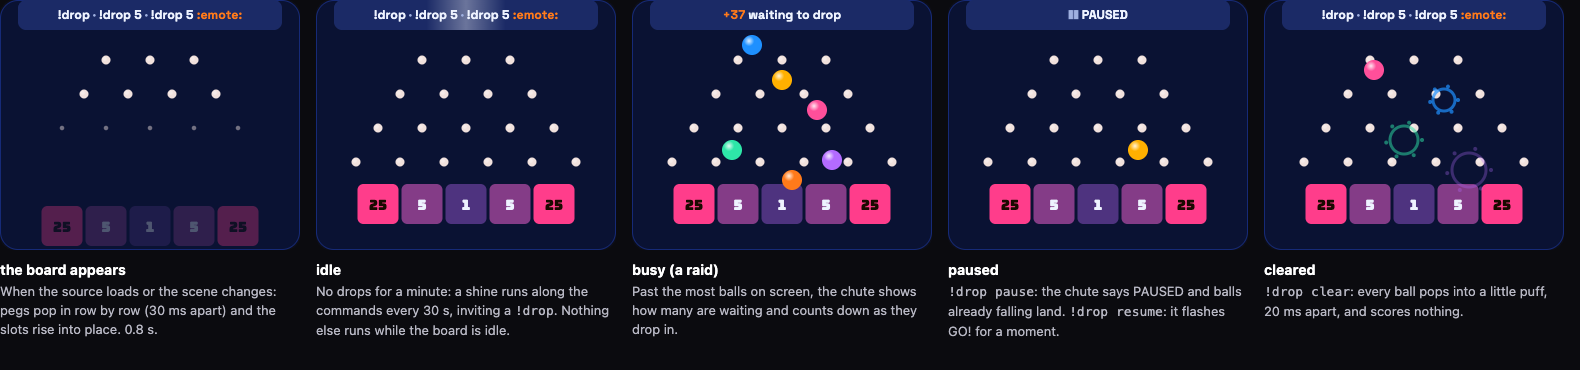
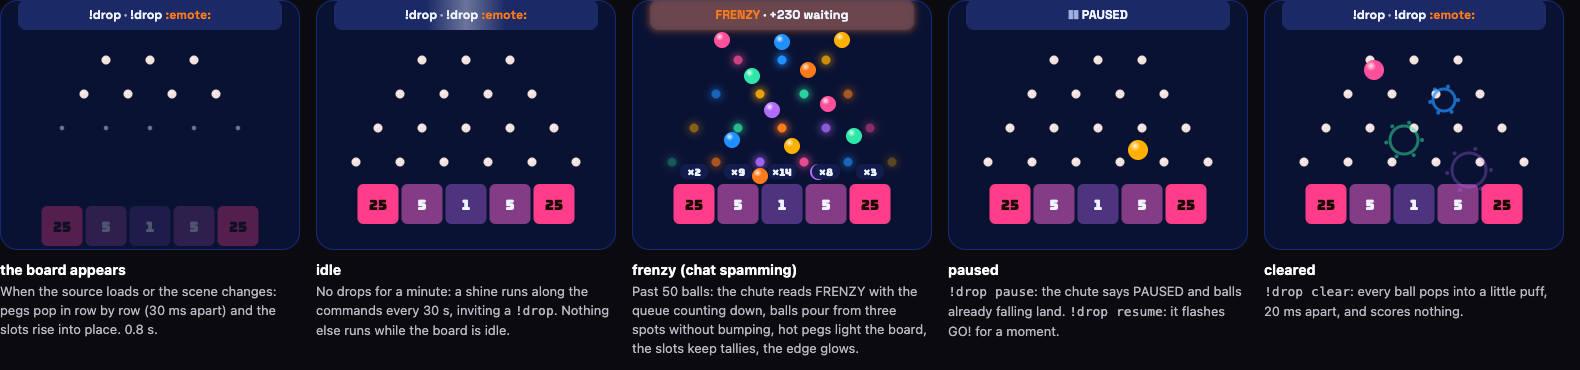
Chaplinko plan: no number and no cooldown (spam is the point: balls per drop, the board queues instead of limiting viewers, 100 on screen); animations scale with activity (Quiet / Busy / Frenzy), the leaderboard batches and shows places climbed; storyboards updated

diff --git a/docs/plans/chaplinko/mockup.html b/docs/plans/chaplinko/mockup.html
@@ -1,6 +1,6 @@
 <!doctype html>
 <!-- A still mockup of Chaplinko (docs/plans/chaplinko/plan.md), drawn with the real widget themes. Not the game:
-     nothing moves. ?v=classic|pachinko|tower|jackpot|clear|panel|strip|lbclear|scene|combined|hero|accents|sb-drop|sb-jackpot|sb-leaderboard|sb-board shows one frame at its real size (for screenshots);
+     nothing moves. ?v=classic|pachinko|tower|jackpot|clear|panel|strip|lbclear|scene|combined|hero|accents|sb-drop|sb-jackpot|sb-leaderboard|sb-levels|sb-board shows one frame at its real size (for screenshots);
      no ?v shows them all. -->
 <html lang="en">
 <head>
@@ -109,7 +109,7 @@ function slotFill(v, max) {
 function slotInk(v, max) { return v === max || v / max > .3 ? 'var(--accent-ink)' : 'var(--text)'; }
 
 // the drop chute at the top of every board, carrying the commands (plan.md, "Chat commands")
-const CMDS = `!drop <tspan style="fill:var(--muted)">·</tspan> !drop 5 <tspan style="fill:var(--muted)">·</tspan> !drop 5 <tspan style="fill:var(--accent)">:emote:</tspan>`;
+const CMDS = `!drop <tspan style="fill:var(--muted)">·</tspan> !drop <tspan style="fill:var(--accent)">:emote:</tspan>`;
 const chute = (cx, label = CMDS, extra = '') => `<rect x="${cx - 132}" y="0" width="264" height="30" rx="8" style="fill:var(--slot)"/>${extra}` +
   `<text x="${cx}" y="15" font-size="12.5" text-anchor="middle" dominant-baseline="central" style="font-family:var(--font);font-weight:700;fill:var(--text)">${label}</text>`;
 function svg(w, h, parts) { return `<svg width="${w}" height="${h}" viewBox="0 0 ${w} ${h}" xmlns="${NS}">
@@ -228,7 +228,7 @@ function mini(o = {}) {
 const at = (P, r, i) => P.find((q) => q.r === r && q.i === i);
 const sbDrop = () => `<div class="sb">
   ${fig(300, 250, mini({ chute: chute(150, `<tspan style="fill:var(--accent)">×4</tspan> more coming`, ''), extra: () => `<g transform="translate(150 30) scale(1 .86) translate(-150 -30)"></g>` + ball(150, 42, 11.5, 0, CHAT[0]) + `<path d="M141 33 q9 -6 18 0" fill="none" stroke-width="2" style="stroke:var(--text)" opacity=".5"/>` }),
-    '0 ms · the drop', 'The chute gulps (squash and spring, 220 ms) and pops the ball out a little big (scale 1.15 → 1). <code>!drop 5</code> streams the rest 120 ms apart and the chute counts them down.')}
+    '0 ms · the drop', 'The chute gulps (squash and spring, 220 ms) and pops the ball out a little big (scale 1.15 → 1). The rest of the drop streams out 120 ms apart and the chute counts them down.')}
   ${fig(300, 250, mini({ peg: (q) => q.r === 1 && q.i === 1 ? pegc(q.x, q.y, CHAT[0]) + ring(q.x, q.y, 13, CHAT[0]) + ring(q.x, q.y, 20, CHAT[0], .25, 1.5) : undefined,
     extra: ({ P }) => { const q = at(P, 1, 1); return [5, 4, 3, 2, 1].map((k) => `<circle cx="${q.x - 6 - k * 4}" cy="${q.y - 14 - k * 7}" r="${9 - k}" style="fill:${CHAT[0]}" opacity="${.07 * (6 - k)}"/>`).join('') +
       `<ellipse cx="${q.x - 6}" cy="${q.y - 13}" rx="11" ry="8.6" transform="rotate(-30 ${q.x - 6} ${q.y - 13})" style="fill:${CHAT[0]}"/><ellipse cx="${q.x - 6}" cy="${q.y - 13}" rx="11" ry="8.6" fill="url(#shine)"/>`; } }),
@@ -276,8 +276,8 @@ const L = PLAYERS;
 const sbBoard = () => `<div class="sb">
   ${fig(LW, LH, lbBox(lbRow(1, L[0]) + lbRow(2, L[1]) + lbRow(3, L[2], 'background:linear-gradient(90deg, color-mix(in srgb, var(--accent) 35%, transparent), transparent 70%)', '<span class="chip">+25</span>', '87<span style="opacity:.45">2</span>') + lbRow(4, L[3]) + lbRow(5, L[4])),
     'a score goes up', 'The points count up (600 ms, fixed-width digits so nothing jiggles), a sweep of the accent crosses the row, and a <b style="display:inline;color:inherit">+25</b> chip fades out beside it.')}
-  ${fig(LW, LH, lbBox(lbRow(1, L[0]) + lbRow(2, L[1], 'transform:translateY(16px);opacity:.7') + lbRow('<span style="display:inline-block;transform:translateY(-4px);opacity:.6">2</span>', [L[2][0], L[2][1], 1130], 'transform:translateY(-16px) scale(1.04);background:var(--slot);border-radius:10px;box-shadow:0 8px 20px #0007;z-index:2') + lbRow(4, L[3]) + lbRow(5, L[4])),
-    'overtaking', 'Rows slide past each other (400 ms, a little overshoot). The one going up lifts above the rest; the rank numbers roll like a counter.')}
+  ${fig(LW, LH, lbBox(lbRow(1, L[0]) + lbRow(2, L[1], 'transform:translateY(16px);opacity:.7') + lbRow('<span style="display:inline-block;transform:translateY(-4px);opacity:.6">2</span>', [L[2][0], L[2][1], 1130], 'transform:translateY(-16px) scale(1.04);background:var(--slot);border-radius:10px;box-shadow:0 8px 20px #0007;z-index:2', '<span style="color:#2ee6a8;font-size:12px;font-weight:700;margin-right:8px">▲1</span>') + lbRow(4, L[3]) + lbRow(5, L[4])),
+    'overtaking', 'Rows slide past each other (400 ms, a little overshoot). The one going up lifts above the rest, the rank numbers roll like a counter, and ▲ shows the places climbed. When busy, reorders batch to once a second.')}
   ${fig(LW, LH, lbBox(lbRow(1, [L[2][0], L[2][1], 1302], 'background:linear-gradient(100deg, transparent 20%, color-mix(in srgb, var(--text) 18%, transparent) 40%, transparent 60%)', `<svg width="30" height="30" style="position:absolute;left:96px;top:2px;overflow:visible">${ball(12, 12, 8)}<path d="M4 -2 v-8 M12 -4 v-10 M20 -2 v-8" stroke="#fff" stroke-opacity=".5" stroke-width="1.5"/></svg>`) + lbRow(2, L[0]) + lbRow(3, L[1]) + lbRow(4, L[3]) + lbRow(5, L[4])),
     'a new #1', 'A tangerine ball drops onto the new leader’s name and bounces twice; a shine sweeps across the row.')}
   ${fig(LW, LH, lbBox(lbRow(1, ALLTIME[0]) + lbRow(2, ALLTIME[1], 'opacity:.65;transform:translateY(6px)') + lbRow(3, ALLTIME[2], 'opacity:.3;transform:translateY(16px)'),
@@ -293,13 +293,49 @@ const sbExtras = () => `<div class="sb">
     'the board appears', 'When the source loads or the scene changes: pegs pop in row by row (30 ms apart) and the slots rise into place. 0.8 s.')}
   ${fig(300, 250, mini({ chute: chute(150, CMDS, `<defs><linearGradient id="shim" x1="0" x2="1"><stop offset=".35" stop-color="#fff" stop-opacity="0"/><stop offset=".5" stop-color="#fff" stop-opacity=".35"/><stop offset=".65" stop-color="#fff" stop-opacity="0"/></linearGradient></defs><rect x="18" y="0" width="264" height="30" rx="8" fill="url(#shim)"/>`) }),
     'idle', 'No drops for a minute: a shine runs along the commands every 30 s, inviting a <code>!drop</code>. Nothing else runs while the board is idle.')}
-  ${fig(300, 250, mini({ chute: chute(150, `<tspan style="fill:var(--accent)">+37</tspan> waiting to drop`), extra: () => ball(120, 45, 10, 0, CHAT[1]) + ball(150, 80, 10, 0, CHAT[2]) + ball(185, 110, 10, 0, CHAT[0]) + ball(100, 150, 10, 0, CHAT[3]) + ball(200, 160, 10, 0, CHAT[5]) + ball(160, 180, 10, 0, CHAT[4]) }),
-    'busy (a raid)', 'Past the most balls on screen, the chute shows how many are waiting and counts down as they drop in.')}
+  ${fig(300, 250, mini({ chute: chute(150, `<tspan style="fill:var(--accent)">FRENZY</tspan> · +230 waiting`, `<rect x="16" y="-2" width="268" height="34" rx="10" style="fill:var(--accent)" opacity=".35" filter="url(#glow)"/>`),
+    peg: (q) => pegc(q.x, q.y, CHAT[(q.r + q.i) % 6], Math.max(.25, 1 - Math.abs(q.i - q.r / 2 - 1) * .3)),
+    extra: ({ x0, sw, sy }) => [[90, 40], [150, 42], [210, 40], [120, 76], [176, 70], [140, 110], [196, 104], [100, 140], [160, 146], [222, 136], [128, 176], [186, 172]].map(([x, y], k) => ball(x, y, 8, 0, CHAT[k % 6])).join('') +
+      [2, 9, 14, 8, 3].map((n, i) => `<rect x="${x0 + i * sw + 8}" y="${sy - 20}" width="${sw - 16}" height="15" rx="7" style="fill:var(--panel)"/>` + text(x0 + i * sw + sw / 2, sy - 12, '×' + n, 10, 'fill:var(--text)')).join('') }) +
+    `<div style="position:absolute;inset:0;border-radius:14px;box-shadow:inset 0 0 30px color-mix(in srgb, var(--accent) 60%, transparent);pointer-events:none"></div>`,
+    'frenzy (chat spamming)', 'Past 50 balls: the chute reads FRENZY with the queue counting down, balls pour from three spots without bumping, hot pegs light the board, the slots keep tallies, the edge glows.')}
   ${fig(300, 250, mini({ chute: chute(150, `<tspan style="fill:var(--muted)">❚❚</tspan> PAUSED`) , extra: () => ball(190, 150, 10, 0, CHAT[2]) }),
     'paused', '<code>!drop pause</code>: the chute says PAUSED and balls already falling land. <code>!drop resume</code>: it flashes GO! for a moment.')}
   ${fig(300, 250, mini({ extra: () => [[110, 70, 0], [180, 100, 1], [140, 140, 3], [205, 170, 5]].map(([x, y, c], k) => k === 0 ? ball(x, y, 10, 0, CHAT[c]) :
       ring(x, y, 8 + k * 3, CHAT[c], .9 - k * .2, 3) + [0, 1, 2, 3, 4, 5].map((j) => `<circle cx="${x + Math.cos(j) * (10 + k * 4)}" cy="${y + Math.sin(j) * (10 + k * 4)}" r="2" style="fill:${CHAT[c]}" opacity="${.9 - k * .2}"/>`).join('')).join('') }),
     'cleared', '<code>!drop clear</code>: every ball pops into a little puff, 20 ms apart, and scores nothing.')}
+</div>`;
+
+// the full board at each activity level (plan.md, "Activity levels")
+function levelBoard(level) {
+  const cx = 320, top = 66, dy = 38, gap = 46, sy = 430, x0 = 67, sw = 46, p = [], vals = [100, 25, 10, 5, 2, 1, 2, 5, 10, 25, 100];
+  seed = 11;
+  const n = { quiet: 3, busy: 26, frenzy: 95 }[level], B = [];
+  for (let k = 0; k < n; k++) {
+    const y = 30 + rnd() * 390, r = Math.max(0, (y - top) / dy); let s = 0; for (let j = 0; j < Math.round(r); j++) s += rnd() < .5 ? 0 : 1;
+    const spot = level === 'frenzy' ? [-80, 0, 80][k % 3] * Math.max(0, 1 - r / 4) : 0;
+    B.push({ x: cx + spot + (s - Math.round(r) / 2) * gap + (rnd() - .5) * 20, y, c: CHAT[k % 6] });
+  }
+  if (level === 'frenzy') p.push(chute(cx, `<tspan style="fill:var(--accent)">FRENZY</tspan> · +230 waiting`, `<rect x="${cx - 136}" y="-2" width="272" height="34" rx="10" style="fill:var(--accent)" opacity=".35" filter="url(#glow)"/>`));
+  else p.push(chute(cx));
+  for (let r = 0; r < 10; r++) { const m = r + 3; for (let i = 0; i < m; i++) {
+    const x = cx + (i - (m - 1) / 2) * gap, y = top + r * dy, near = B.filter((b) => Math.hypot(b.x - x, b.y - y) < 48);
+    if (level === 'quiet' || !near.length) { p.push(peg(x, y)); continue; }
+    p.push(pegc(x, y, near[0].c, Math.min(1, near.length * (level === 'frenzy' ? .3 : .45))));
+  } }
+  p.push(slots(x0, sy, 11 * sw, 44, vals));
+  if (level === 'frenzy') [0, 1, 3, 7, 16, 22, 17, 8, 3, 1, 0].forEach((t, i) => { if (!t) return;
+    p.push(`<rect x="${x0 + i * sw + 7}" y="${sy - 22}" width="${sw - 14}" height="17" rx="8" style="fill:var(--panel)"/>` + text(x0 + i * sw + sw / 2, sy - 13, '×' + t, 11, 'fill:var(--text)')); });
+  B.forEach((b) => p.push(ball(b.x, b.y, level === 'frenzy' ? 8 : 10, level === 'quiet' ? 26 : level === 'busy' ? 12 : 0, b.c)));
+  if (level === 'quiet') { p.push(ring(B[1].x + 12, B[1].y + 12, 13, B[1].c), text(x0 + 9.5 * sw, sy - 26, '+25', 18, `fill:${CHAT[1]}`), text(x0 + 5.5 * sw, sy - 18, '+1', 13, 'fill:var(--text);opacity:.8')); }
+  if (level === 'busy') p.push(text(x0 + 1.5 * sw, sy - 24, '+25', 17, `fill:${CHAT[3]}`));
+  const glow = level === 'frenzy' ? `<div style="position:absolute;inset:0;border-radius:var(--radius);box-shadow:inset 0 0 28px color-mix(in srgb, var(--accent) 45%, transparent)"></div>` : '';
+  return frame('chaplinko', 640, 540, svg(640, 540, p) + glow);
+}
+const sbLevels = () => `<div class="sb">
+  ${fig(384, 324, scaled(.6, levelBoard('quiet')), 'Quiet · under 15 balls', 'Every ball gets the full treatment: trails, a ring on each peg hit, the slot’s dip and flash, a <b style="display:inline;color:inherit">+N</b> for every landing, near misses.')}
+  ${fig(384, 324, scaled(.6, levelBoard('busy')), 'Busy · 15 to 50', 'Short trails, pegs just flash, hot pegs show the flow, and only the better landings get a number. The board reads as a whole.')}
+  ${fig(384, 324, scaled(.6, levelBoard('frenzy')), 'Frenzy · over 50, or a queue', 'Chat is spamming: balls pour from three spots without bumping, hot pegs are the effect, the slots keep tallies, the chute counts the queue down and the edge glows.')}
 </div>`;
 
 const V = {
@@ -322,6 +358,7 @@ const V = {
   'sb-drop': ['Motion: a ball, from the chute to its slot', sbDrop],
   'sb-jackpot': ['Motion: the jackpot, second by second', sbJackpot],
   'sb-leaderboard': ['Motion: the leaderboard', sbBoard],
+  'sb-levels': ['Motion: the same board at each activity level', sbLevels],
   'sb-board': ['Motion: the board’s moments', sbExtras],
   hero: ['The board alone, transparent, for the website mockup', () => frame('chaplinko', 640, 540, classic(), '', true)],
   accents: ['The same board with a background: chaplinko (the default), chatagram and the other themes, some with other accents (640×540 each, shown at half size)', () => `<div class="mini">${[['chaplinko', ''], ['chatagram', ''], ['neutral', ''], ['light', ''], ['cozy', ''], ['neon', '#ff4155'], ['royal', '#ffd98a'], ['deep', '#45d6c8'], ['candy', '#ff7bd5']]

diff --git a/docs/plans/chaplinko/plan.md b/docs/plans/chaplinko/plan.md
@@ -19,7 +19,9 @@ source: [panel](panel.png), [strip](strip.png), [transparent](lbclear.png). On a
 - **Plinko**: balls fall through pegs, and the **scores are the slots at the bottom**.
 - The scores feed an **All time / This stream** leaderboard. Nothing more complex than that.
 - **Lots of variety in the design**: themes and accent colours.
-- `!drop` drops 1 ball, `!drop 5` drops 5, `!drop 5 <emote>` drops 5 of that emote.
+- `!drop` drops the balls, `!drop <emote>` drops that emote. **No number** and **no cooldown** (2026-09-30): the point
+  is chat spamming `!drop` to climb the leaderboard, so the board takes all of it and scales its animations to how busy
+  it is. Following one ball closely matters less than the leaderboard.
 - **Balls don't show names.** Names are for the leaderboard, and for a popup when someone hits the top slot ("pixelpriya
   scored 100").
 - Set up and configured the way Chatagram is.
@@ -170,7 +172,7 @@ scores directly.
 ### The board source
 
 - **640 × 540.** As in Chatagram, the board scales to fit if the OBS source is another size.
-- **The commands are on the board**, in the drop chute at the top: `!drop · !drop 5 · !drop 5 :emote:` (using the
+- **The commands are on the board**, in the drop chute at the top: `!drop · !drop :emote:` (using the
   streamer's own command names if they renamed them). This is where viewers look, and it keeps the leaderboard compact.
   It can be turned off (Advanced → Show the commands).
 - **Transparent by default**: no background and no frame; pegs, slots, balls, the chute and the `+N` numbers have a
@@ -210,12 +212,18 @@ scores directly.
 
 ## Chat commands
 
-- `!drop`: 1 ball. `!drop 5`: 5 balls (capped at **Most balls per command**, default 5, range 1–20). `!drop 5 <emote>`
-  or `!drop <emote>`: that emote instead of a ball. An emoji works too (`!drop 3 🔥`).
-- **Per-person cooldown**: default 20 s, range 0–300. A `!drop` during the cooldown is ignored silently, so chat isn't
-  spammed with replies (the widget has no way to reply anyway).
-- **Most balls on screen**: default 40, range 10–100. Beyond that, drops **queue** and fall in turn, spaced out, so a
-  raid can't make OBS stutter. The queue has a limit (200) and drops beyond it are ignored.
+- `!drop`: **Balls per drop** balls (default 5, range 1–10, the streamer's setting). `!drop <emote>`: that many of the
+  emote instead of balls. An emoji works too (`!drop 🔥`). There's no number to type: everyone's drop is the same size,
+  and anything after `!drop` that isn't an emote is ignored, so `!drop 5` from habit (other games use it) is a plain
+  `!drop`.
+- **Spam is the point.** Every `!drop` counts, as often as a viewer can send them, so climbing the leaderboard is about
+  dropping the most. The platforms' own chat limits (and slow mode, if the streamer turns it on) are the only brakes.
+  Advanced has a **per-person cooldown**, default **0 (off)**, range 0–300 s, for streamers who want one; a `!drop`
+  during it is ignored silently.
+- **The board limits itself, not the viewers.** **Most balls on screen**: default 100, range 20–200. Balls enter from
+  the chute at up to 20 a second; past that, drops **queue**. The queue holds about 30 s of balls (600); drops beyond it
+  are ignored until it drains, so a `!drop` never lands minutes late. How the board looks as it fills is in
+  "Animations" (activity levels).
 - The leaderboard and moderation commands follow Chatagram's pattern, all starting `!drop` and renamable in Advanced:
   - `!drop top`: **off by default**, since there's usually a leaderboard on screen. For streamers using board only, it
     shows both lists over the board for 8 s. Viewers share a 60 s cooldown.
@@ -262,7 +270,9 @@ safe and means no lookups.
 
 The game is only as good as how it feels to watch, so every moment chat causes gets a reaction, **in proportion to what
 happened**: a ball hitting a peg is a flicker, a jackpot stops the show. Housekeeping (pausing, switching lists) is
-quiet. Storyboards: [a ball](sb-drop.png), [the jackpot](sb-jackpot.png), [the leaderboard](sb-leaderboard.png),
+quiet. **The reactions scale with how busy the board is** (activity levels, below): with three balls on the board each
+one gets the full treatment; with a hundred, the board as a whole is the show and the leaderboard is what people
+watch. Storyboards: [a ball](sb-drop.png), [the jackpot](sb-jackpot.png), [the leaderboard](sb-leaderboard.png),
 [the board's moments](sb-board.png).
 
 ### How it's built
@@ -276,17 +286,42 @@ quiet. Storyboards: [a ball](sb-drop.png), [the jackpot](sb-jackpot.png), [the l
   jumps.
 - **Timing**, shared by both: quick 150 ms, base 300 ms, slow 600 ms; **spring** `cubic-bezier(.34, 1.56, .64, 1)`
   for things arriving (a little overshoot), **out** `cubic-bezier(.2, .8, .2, 1)` for things leaving or settling.
-- **Caps** so a raid can't make OBS stutter: at most 150 particles, 60 rings and 40 trails at once (the oldest go
-  first); the numbers that float up merge when they land in the same slot within 0.3 s (`+2 ×3`). Target: 60 frames a
-  second with 40 balls and a jackpot on a modest streaming PC, checked in the browser tests.
+- **Caps** as a last line (the activity levels do most of the work): at most 150 particles, 60 rings and 40 trails at
+  once, the oldest going first. Target: 60 frames a second with 200 balls and a jackpot on a modest streaming PC,
+  checked in the browser tests.
+
+### Activity levels
+
+The board measures how busy it is (balls on screen and the queue) and picks a level. It goes up at once and comes down
+only after 3 s below the line, so it doesn't flicker between levels. The change itself is animated (below).
+
+| | **Quiet** (under 15 balls) | **Busy** (15–50) | **Frenzy** (over 50, or a queue) |
+|---|---|---|---|
+| Drop point | the middle of the chute | the middle | **three spots** across the chute |
+| Trails | 6 positions | 3 | none |
+| Peg hit | flash, ring, squash | flash only | none per ball: **hot pegs** carry it |
+| Hot pegs | faint | clear | **the main effect**: the whole board glows where balls pour |
+| Landing | slot dips and flashes, `+N` for every ball | `+N` only for the upper half of values | no `+N`; each slot keeps a **tally** (`×12`) that bumps with each landing and fades 2 s after the last |
+| Sparkles | upper half of values | top two values | top value only |
+| Near miss | yes | no | no |
+| Big win toast (top two) | yes | yes | no: the second-highest slot just flashes |
+| Jackpot | the full show | the full show | a short version (below) |
+| Balls bump each other | yes | yes | no, so they pour instead of jam |
+
+**Entering Frenzy** is a moment of its own: the chute pulses and reads **FRENZY · +230 waiting** (counting down), the
+board's edge glows in the accent and breathes with the landings, and the balls start pouring from three spots. When it
+drains back to Busy the glow fades and the chute returns to the commands. Frenzy is the reward for chat spamming
+together, so it should feel like the board is overjoyed, not overwhelmed.
 - **Every animation ends.** A test with the fake clock runs a jackpot, a raid and a list switch, then checks the loop
   has stopped and no timers are left (the existing loop tests catch anything that keeps running).
 
 ### A ball (storyboard: a ball)
 
+As a ball looks when the board is **Quiet**; Busy and Frenzy trim it as in the table above.
+
 | Moment | What happens | Time |
 |---|---|---|
-| **The drop** | The chute gulps (squash and spring) and pops the ball out slightly big (1.15 → 1). `!drop 5` streams the rest 120 ms apart and the chute counts them down ("×4 more coming"). | 220 ms |
+| **The drop** | The chute gulps (squash and spring) and pops the ball out slightly big (1.15 → 1). The rest of the drop streams out 120 ms apart and the chute counts them down ("×4 more coming"). | 220 ms |
 | **In flight** | A short trail in the ball's colour (the last 6 positions, fading). Emote balls turn with the ball's spin. | always |
 | **Peg hit** | The peg flashes the ball's colour and a ring spreads out; the ball squashes a touch against it. | 250 ms |
 | **Hot pegs** | Hit pegs keep a glow in the ball's colour that fades over 2 s, so the board shows the paths the balls took. A busy board lights up. | 2 s |
@@ -313,6 +348,9 @@ Landings are **tiered by value**, so bigger feels bigger:
 
 - Several jackpots **queue**: the next card starts as the last leaves, and a second jackpot within 10 s says
   "×2 JACKPOT!".
+- **In Frenzy** the jackpot is shorter so the flood doesn't stall: no slow motion, the beam and ripple still fire, the
+  card shows for 2 s. If more than 3 are waiting they merge into one card: "JACKPOT ×5: pixelpriya, m0ssy, kevxd and 2
+  more".
 - Transparent board: no dimming of the whole source, only a soft dark glow behind the card, so the game stays visible.
 - The card's line under the points is the proof it's rare: "1 in 512 · the first today".
 
@@ -322,7 +360,8 @@ Landings are **tiered by value**, so bigger feels bigger:
   place. 0.8 s.
 - **Idle**: no drops for a minute, and a shine runs along the commands in the chute every 30 s, inviting a `!drop`.
   That's the only thing that runs while idle, and it's CSS.
-- **Busy** (a raid): past the most balls on screen, the chute shows "+37 waiting to drop" and counts down.
+- **Frenzy**: the chute reads "FRENZY · +230 waiting" and counts down, balls pour from three spots, hot pegs light the
+  board and the slots keep tallies (see "Activity levels").
 - **Paused**: the chute says PAUSED; balls already falling land. **Resume**: it flashes GO! for a moment.
 - **Cleared**: every ball pops into a little puff, 20 ms apart, scoring nothing.
 
@@ -332,13 +371,17 @@ Landings are **tiered by value**, so bigger feels bigger:
 |---|---|---|
 | **Appearing** | The title, then the rows deal in from just below, 60 ms apart. | 0.6 s |
 | **A score goes up** | The points count up (fixed-width digits, so nothing jiggles); an accent sweep crosses the row; a `+25` chip fades out beside it. | 600 ms |
-| **Overtaking** | Rows slide past each other with a little overshoot; the one going up lifts above the rest; the rank numbers roll like a counter. | 400 ms |
+| **Overtaking** | Rows slide past each other with a little overshoot; the one going up lifts above the rest; the rank numbers roll like a counter, and a **▲2** shows how many places they climbed (fades after 3 s). | 400 ms |
 | **A new #1** | A tangerine ball drops onto the new leader's row and bounces twice; a shine sweeps across it. | 800 ms |
 | **Into the top N** | The new row slides in from the side, and the one pushed out slides away and fades. | 400 ms |
 | **Switching lists** (both) | The tab pill slides across; the old rows lift away and the new ones deal in from below. A thin bar under the tabs fills until the next switch. | 600 ms |
 | **A jackpot on the board** | The winner's row glows jackpot pink for 3 s. | 3 s |
 | **Empty** | "No drops yet. Type `!drop`" with a ball that bounces three times every 10 s. | |
 
+- **Climbing is the point**, so the leaderboard's animations matter more than any ball's. When the board is busy the
+  leaderboard doesn't calm down with it; it **batches** instead: scores count up continuously, the `+N` chip adds up
+  over the burst (`+145`), and the rows reorder at most once a second, so a flood reads as people surging past each
+  other rather than a flicker. The ▲ arrows add up the same way.
 - **Switching waits for the action**: if a score on the shown list is animating, the switch holds until 3 s after the
   last change, so an overtake is never cut off. A score change on the hidden list waits until that list is shown, then
   plays.
@@ -355,7 +398,8 @@ the link says so):
 
 - **Full** (default): everything above.
 - **Calm**: the balls still fall and the numbers still count, but no shake, slow motion, beam, confetti, hot pegs or
-  trails; things fade instead of springing. For streamers who find it busy.
+  trails, and Frenzy only pours from three spots (no glow); things fade instead of springing. For streamers who find
+  it busy.
 - **Reduce**: nothing falls (the ball appears in its slot with the `+N`), leaderboard changes are instant, the big win
   card fades in and out. The website's previews follow the visitor's system setting.
 
@@ -368,7 +412,10 @@ nothing is drawn, and no timers run inside it. As with `game.js`, the clock and 
 replay any drop exactly.
 
 - A fixed 120 steps a second. Balls and pegs are circles, the walls and slot dividers are line segments. Balls bounce
-  off each other (a simple grid keeps that cheap), so 5 emotes don't pass through each other.
+  off each other (a simple grid keeps that cheap), so 5 emotes don't pass through each other. In **Frenzy** (see
+  "Animations") balls stop colliding with each other, so a flood pours through instead of jamming; the odds are the
+  same either way (the odds test checks both).
+- 200 balls at 120 steps a second is a few thousand circle checks per step: well within OBS's budget.
 - A little randomness when a ball is dropped (its start position and spin) and none after that, so each drop is exactly
   replayable from its seed.
 - One `<canvas>`, scaled for the screen's pixel density. The animation only runs while something is moving: an idle
@@ -384,7 +431,7 @@ Main: Twitch, Kick, **layout** (separate / combined, and for combined: leaderboa
 accent, background (default 0, transparent). The leaderboard's own settings sit in a separate part: its shape (panel /
 strip, separate only), how many, show (This stream / All time / both), switch every, and for the separate source its
 own theme, accent and background. Advanced: motion (full / calm / reduce), near miss on or off, slot
-values, big win card, show the commands, ball colour, most balls per command, cooldown, most balls on screen, ball size,
+values, big win card, show the commands, ball colour, balls per drop, cooldown (off), most balls on screen, ball size,
 gravity (slow / normal / fast), commands and who can use them, ignored users, `!drop top` on or off, show All time, the
 credit.
 
@@ -426,10 +473,10 @@ the queue and balls in the air are gone, and they hadn't scored yet.
 
 ## Open questions for the owner
 
-1. **Cooldown and cap defaults**: 20 s per person and 5 balls per command? A big chat might want 60 s.
+1. **Balls per drop**: 5 by default? With spam allowed, 3 would make each `!drop` less of a flood; 5 feels generous.
 2. **Default layout**: separate or combined? The plan says separate (the most flexible), but combined is one link and
    the easiest to set up.
 3. **Near miss** ("so close!"): on by default? It's the most fun small touch, but some might find it teasing.
 
-Decided 2026-09-30: transparent by default; the leaderboard shows both lists by default, switching every 15 s
+Decided 2026-09-30: no number and no cooldown (spam is the point; the board scales instead); transparent by default; the leaderboard shows both lists by default, switching every 15 s
 (configurable); balls are the chatter's colour.
